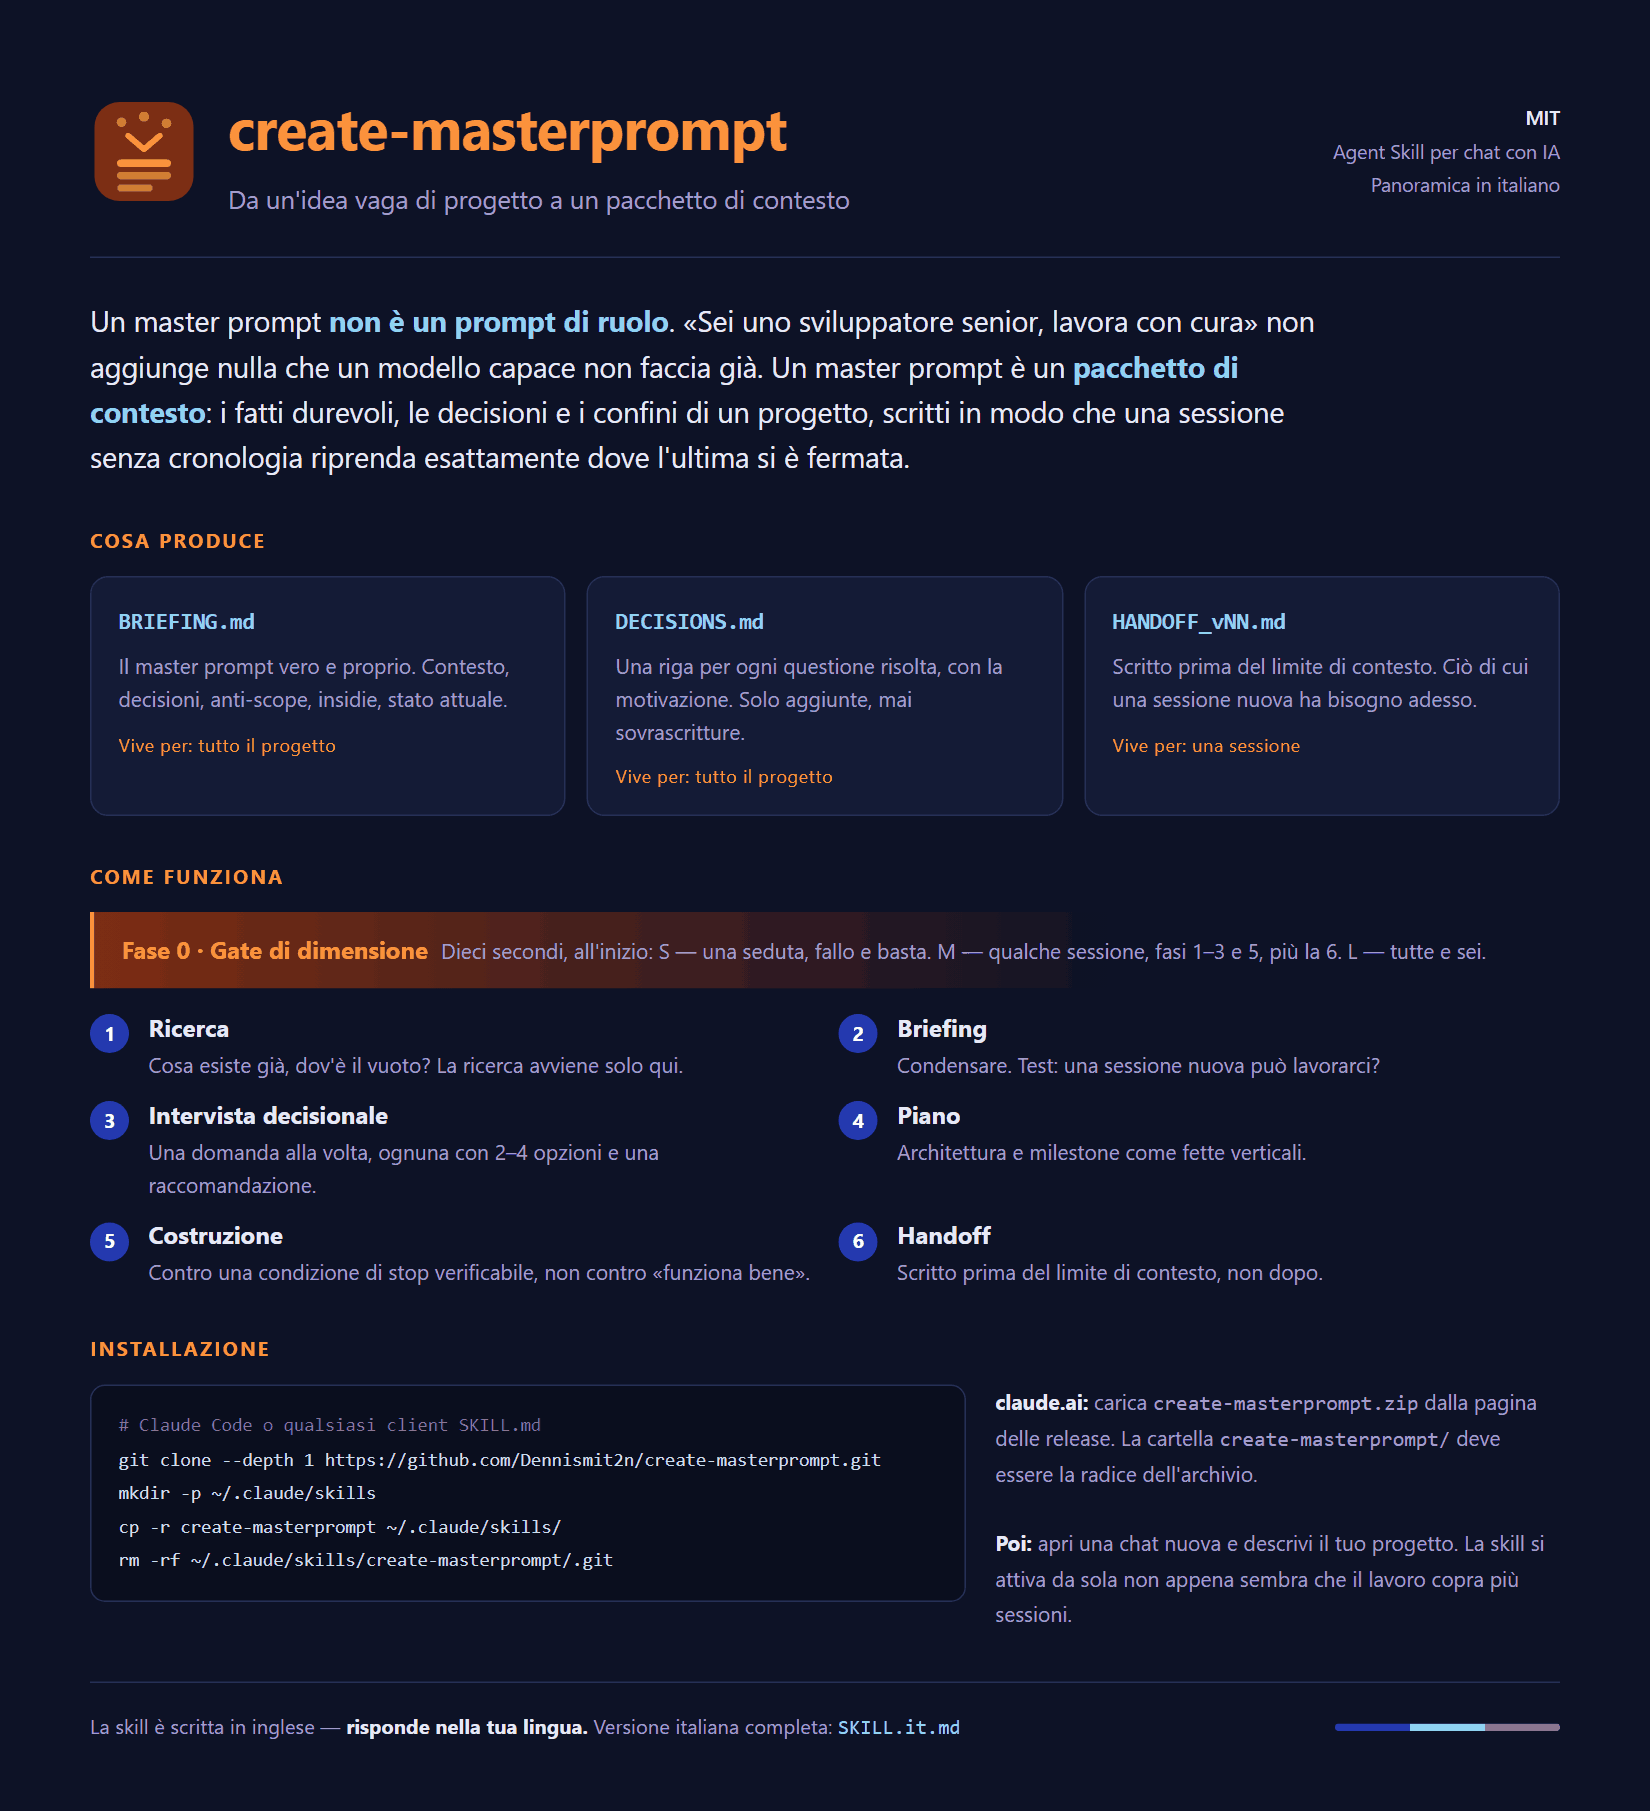
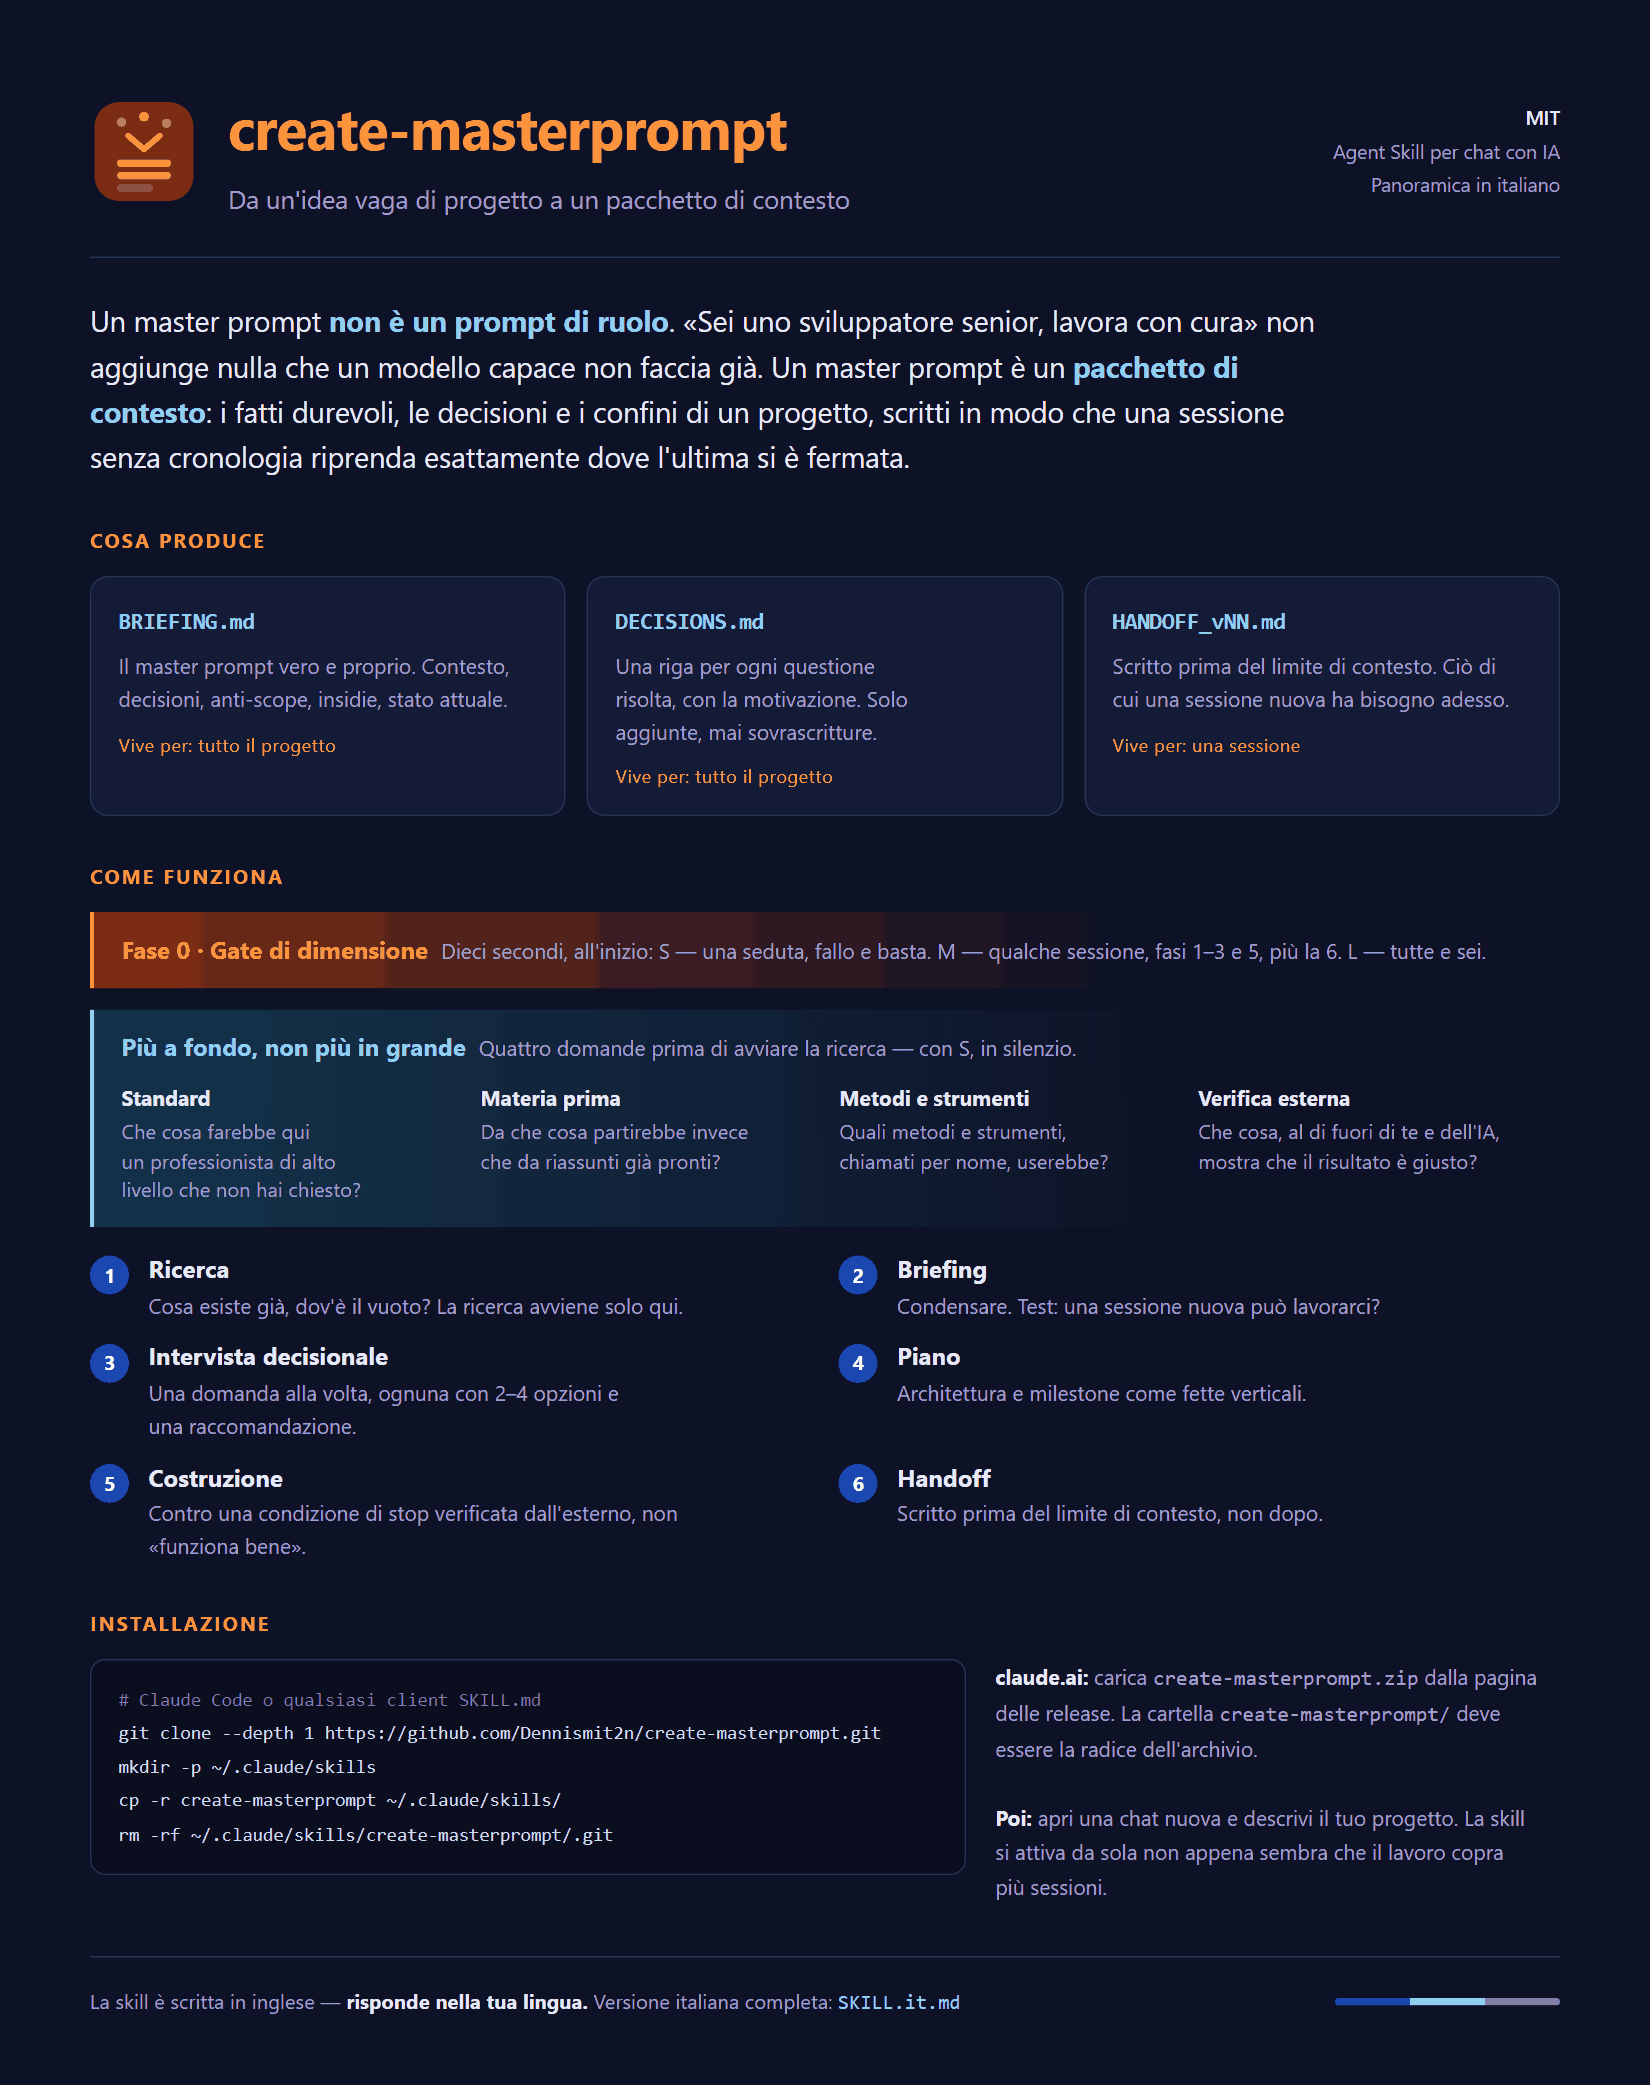
docs: Übersichtstafeln zeigen die vier Tiefenfragen, saubere Umbrüche
Band „Deeper, not bigger“ unter dem Größen-Gate mit allen vier Fragen,
Phase 5 „von außen geprüft“, in allen vierzehn Sprachen. Zehn neue
Schlüssel in strings-<code>.json, je mit Längenbudget in bau-tafeln.py.
Umbrüche: text-wrap pretty/balance gegen einzelne Wörter in der letzten
Zeile, Koreanisch keep-all, Japanisch auto-phrase; gemessen in allen
vierzehn Sprachen, kein Überlauf.

diff --git a/tools/uebersicht/vorlage.html b/tools/uebersicht/vorlage.html
@@ -6,6 +6,7 @@
   :root{
     --bg:#0D1226; --panel:#141B36; --text:#E6E9F7; --soft:#A29CCB;
     --border:#263056; --royal:#2439B2; --ice:#8FD3F4; --rost:#fb923c; --rost-tief:#7c2d12;
+    --eis-tief:#14344d;
   }
   *{box-sizing:border-box;margin:0;padding:0}
   body{background:var(--bg);font:16px/1.55 "Segoe UI",system-ui,sans-serif;color:var(--text)}
@@ -35,6 +36,20 @@
         border-left:3px solid var(--rost);border-radius:0 10px 10px 0;padding:13px 18px;margin-bottom:14px}
   .gate b{color:var(--rost)}
   .gate span{color:var(--soft);font-size:14px}
+
+  .tiefe{background:linear-gradient(90deg,var(--eis-tief),transparent 75%);
+         border-left:3px solid var(--ice);border-radius:0 10px 10px 0;padding:13px 18px 15px;margin-bottom:16px}
+  .tiefe-kopf b{color:var(--ice)}
+  .tiefe-kopf span{color:var(--soft);font-size:14px}
+  .fragen{display:grid;grid-template-columns:repeat(4,1fr);gap:16px;margin-top:10px;align-items:start}
+  .fragen b{display:block;font-size:14px}
+  .fragen span{display:block;color:var(--soft);font-size:13.5px;line-height:1.45;margin-top:2px;text-wrap:balance}
+  /* keine einzelnen Woerter in der letzten Zeile, in allen vierzehn Sprachen */
+  .lead,.gate,.tiefe-kopf,.phase span,.hinweis{text-wrap:pretty}
+  .datei p{text-wrap:balance}
+  /* Koreanisch bricht an Leerzeichen, nicht zwischen Silben; Japanisch nach Sinneinheiten */
+  :lang(ko) body{word-break:keep-all}
+  :lang(ja) body{word-break:auto-phrase}
 
   .phasen{display:grid;grid-template-columns:repeat(2,1fr);gap:11px 18px}
   .phase{display:flex;gap:13px;align-items:baseline}
@@ -110,6 +125,15 @@
     <h2>{{h_runs}}</h2>
     <div class="gate">
       <b>{{gate_title}}</b> &nbsp;<span>{{gate_text}}</span>
+    </div>
+    <div class="tiefe">
+      <div class="tiefe-kopf"><b>{{depth_title}}</b> &nbsp;<span>{{depth_note}}</span></div>
+      <div class="fragen">
+        <div><b>{{q1_name}}</b><span>{{q1_text}}</span></div>
+        <div><b>{{q2_name}}</b><span>{{q2_text}}</span></div>
+        <div><b>{{q3_name}}</b><span>{{q3_text}}</span></div>
+        <div><b>{{q4_name}}</b><span>{{q4_text}}</span></div>
+      </div>
     </div>
     <div class="phasen">
       <div class="phase"><div class="nr">1</div><div><b>{{p1_name}}</b><span>{{p1_desc}}</span></div></div>

diff --git a/tools/uebersicht/bau-tafeln.py b/tools/uebersicht/bau-tafeln.py
@@ -12,6 +12,8 @@ CODES = sys.argv[1:] or sorted(
 KEYS = ['unter', 'band_kind', 'band_lang', 'lead',
         'h_produce', 'f1_desc', 'f1_lives', 'f2_desc', 'f2_lives', 'f3_desc', 'f3_lives',
         'h_runs', 'gate_title', 'gate_text',
+        'depth_title', 'depth_note', 'q1_name', 'q1_text', 'q2_name', 'q2_text',
+        'q3_name', 'q3_text', 'q4_name', 'q4_text',
         'p1_name', 'p1_desc', 'p2_name', 'p2_desc', 'p3_name', 'p3_desc',
         'p4_name', 'p4_desc', 'p5_name', 'p5_desc', 'p6_name', 'p6_desc',
         'h_install', 'code_comment', 'hint_claudeai', 'hint_then', 'footer']
@@ -20,11 +22,14 @@ BUDGET = {'unter': 60, 'band_kind': 30, 'band_lang': 30, 'lead': 420,
           'h_produce': 28, 'h_runs': 28, 'h_install': 28,
           'f1_desc': 110, 'f2_desc': 110, 'f3_desc': 110,
           'f1_lives': 34, 'f2_lives': 34, 'f3_lives': 34,
-          'gate_title': 30, 'gate_text': 150,
+          'gate_title': 30, 'gate_text': 150, 'depth_title': 30, 'depth_note': 90,
           'code_comment': 50, 'hint_claudeai': 190, 'hint_then': 190, 'footer': 170}
 for i in range(1, 7):
     BUDGET['p%d_name' % i] = 26
     BUDGET['p%d_desc' % i] = 80
+for i in range(1, 5):
+    BUDGET['q%d_name' % i] = 26
+    BUDGET['q%d_text' % i] = 80
 
 # **x** -> <strong>/<b>, `x` -> <code>; vorher HTML-escapen, damit & < > in
 # Uebersetzungen nichts zerlegen. Ost-asiatische Sprachen brauchen keinen

diff --git a/CHANGELOG.md b/CHANGELOG.md
@@ -1,5 +1,18 @@
 # Changelog
 
+## Unreleased
+
+- **Overview images show the depth questions.** A “Deeper, not bigger” band
+  sits under the size gate with all four questions, and phase 5 now says the
+  stop condition is checked from outside — in all fourteen languages. The
+  template gains ten string keys (`depth_*`, `q1`–`q4`), each with a length
+  budget in `bau-tafeln.py`.
+- **Cleaner line breaks on every image.** No single word is left alone on a
+  last line any more (`text-wrap: pretty`, `balance` for the file cards and
+  the four questions); Korean breaks at spaces instead of between syllables,
+  Japanese at phrase boundaries. Checked by measuring every wrapped line in
+  all fourteen languages, not by eye alone.
+
 ## 1.8.0
 
 - **Deeper, not bigger.** Phase 1 now opens with four questions about the
